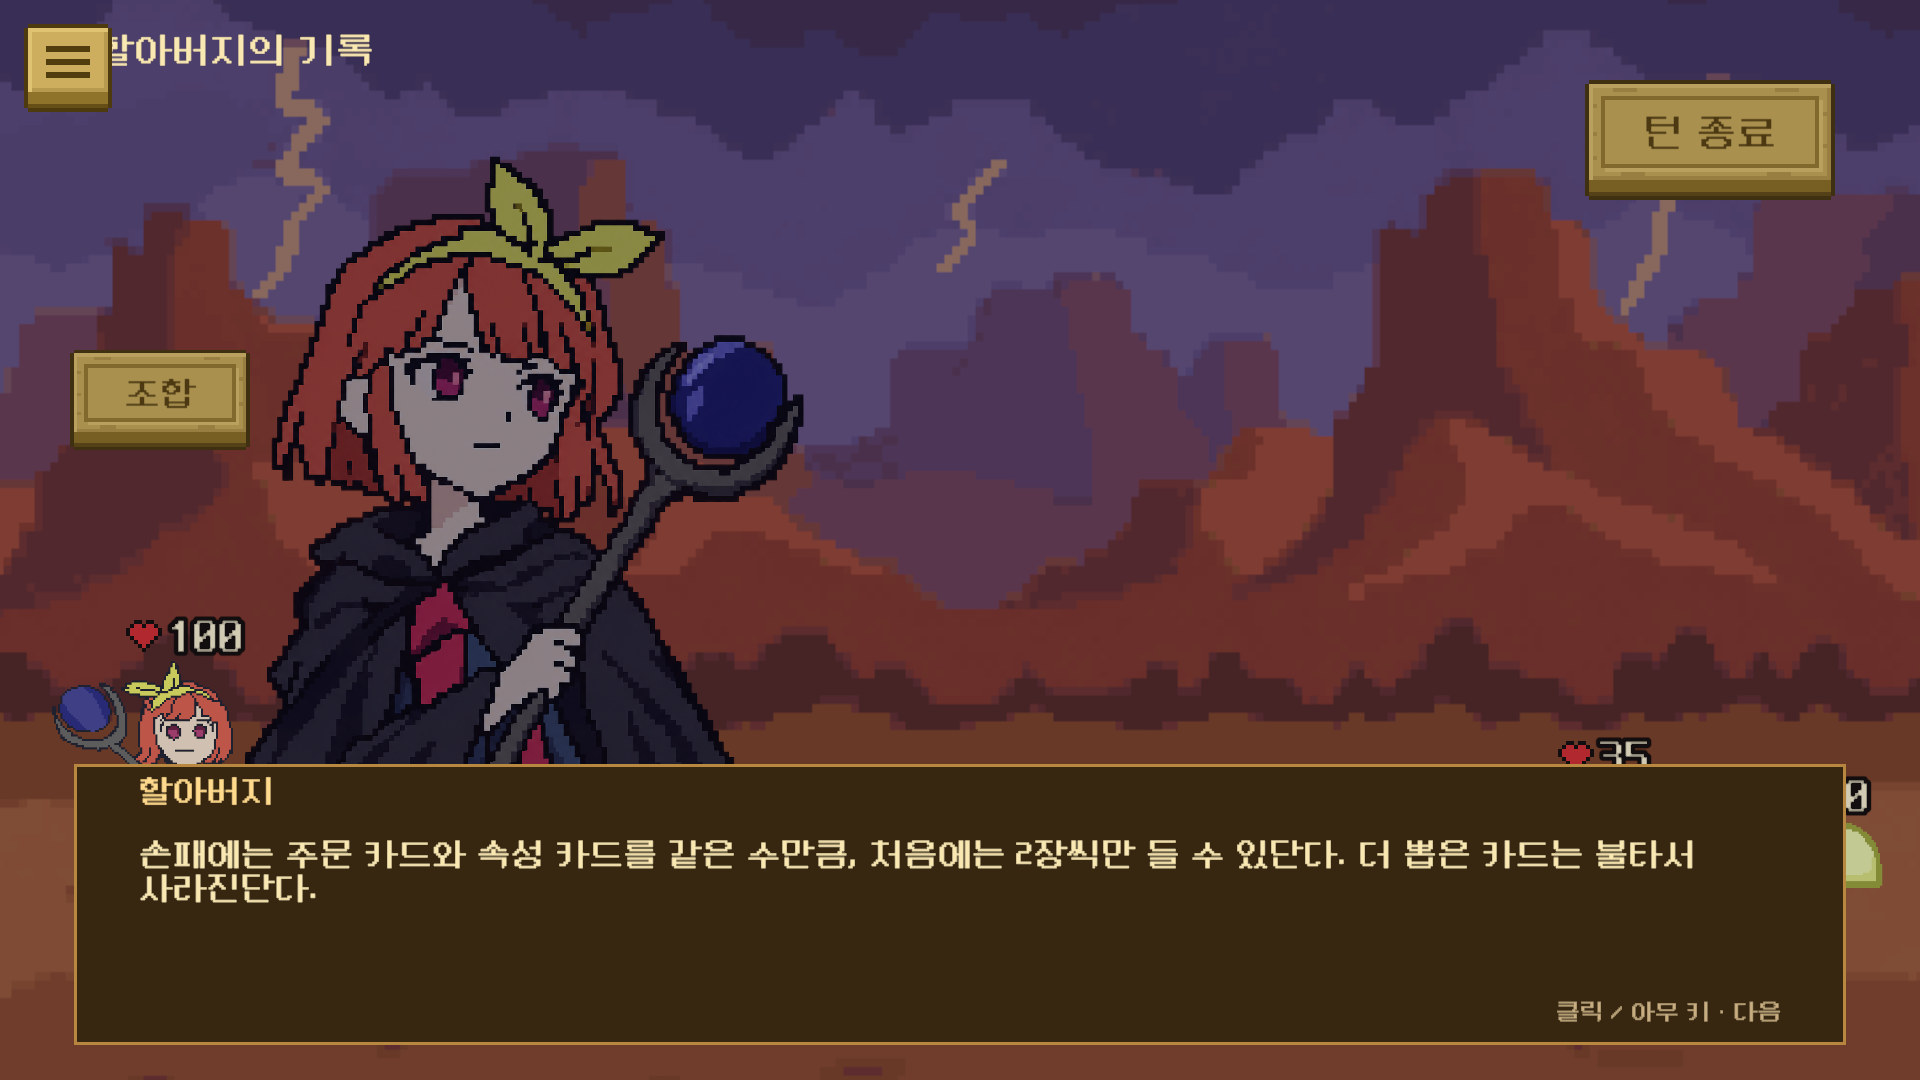
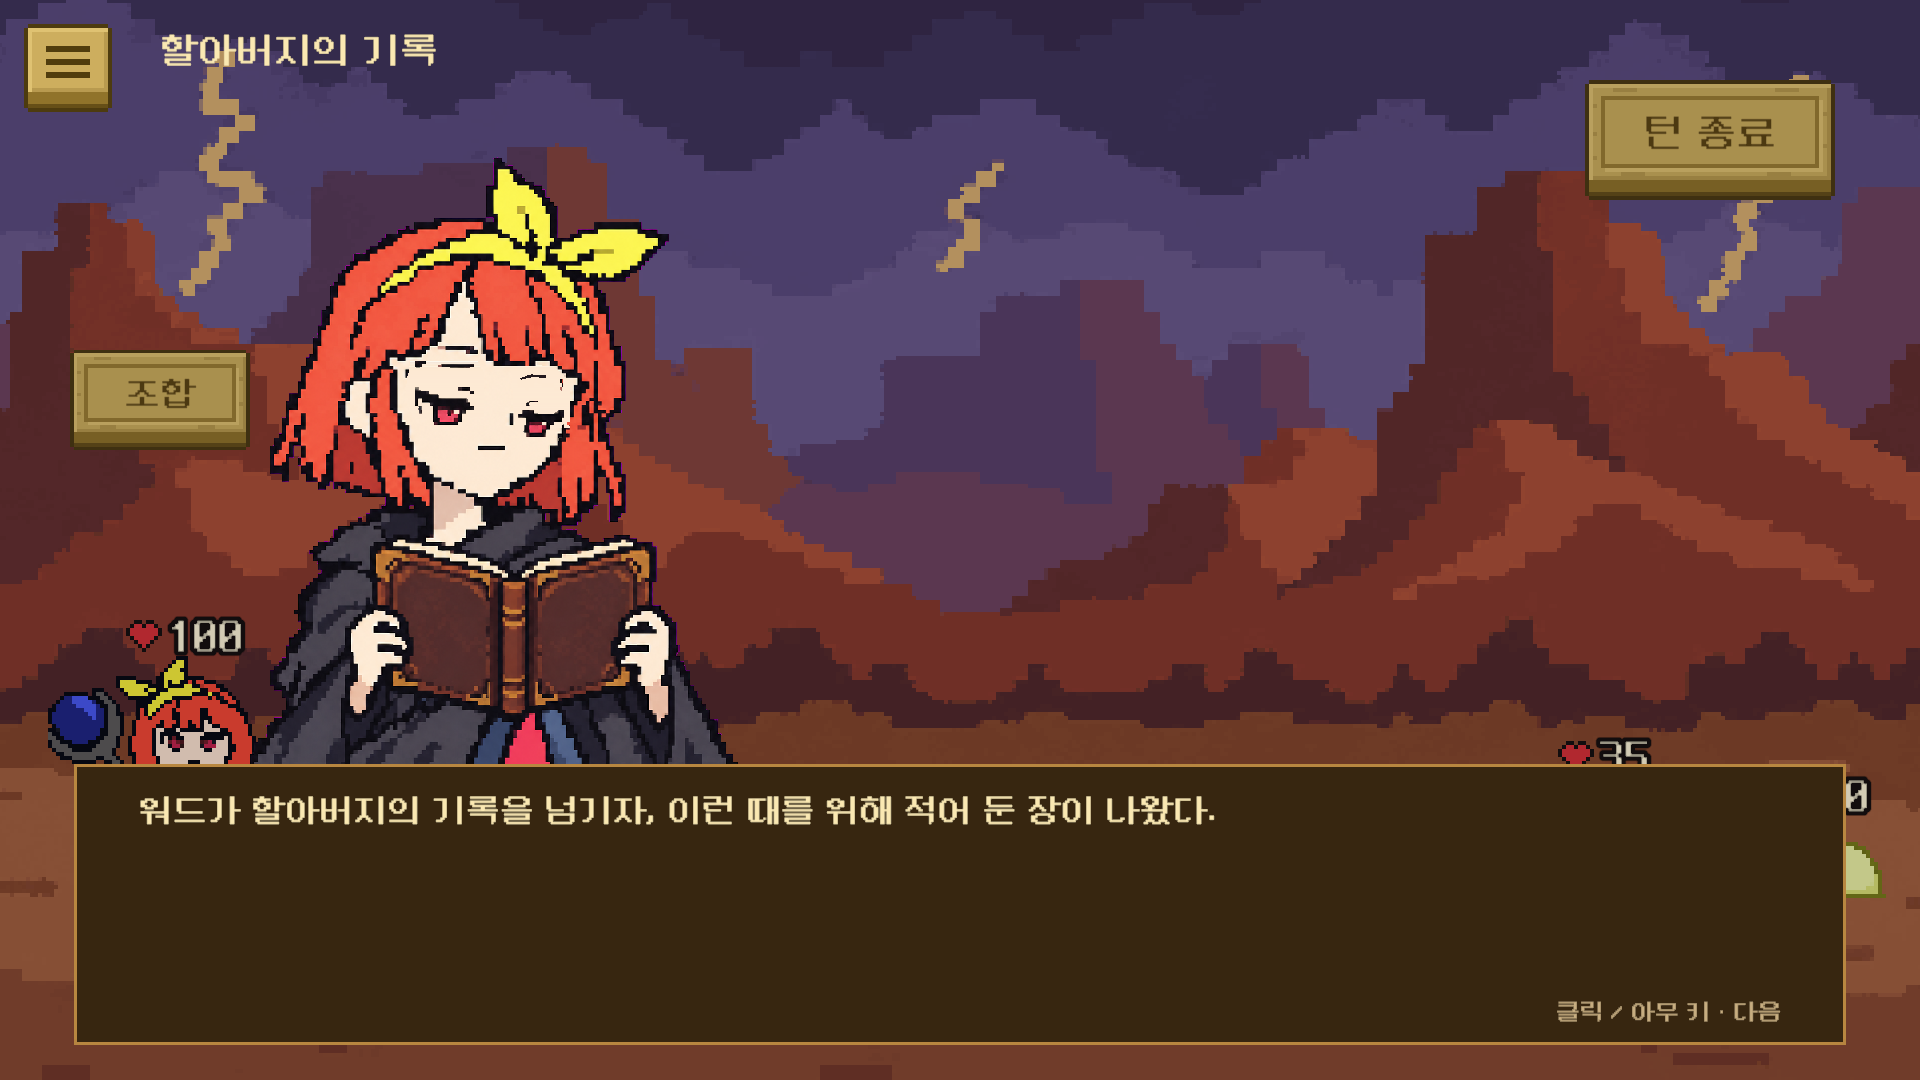
docs: #119 계획에 기록 나레이션과 안내 저장 결정, 최신 검증 결과 반영

diff --git a/.plan/issues/2026-10-14-issue-119-hand-limit-enemy-rage-upgrades.md b/.plan/issues/2026-10-14-issue-119-hand-limit-enemy-rage-upgrades.md
@@ -37,7 +37,8 @@
 - 새 게임(`SaveLoadController.InitPlayData`)은 재화와 업그레이드를 초기화한다. 이어하기는 유지한다.
 - 업그레이드 창과 결과 정산 화면은 `SlimeEncyclopediaView` 처럼 Canvas를 코드로 만든다.
 - 폰트 atlas 에 `→` 가 없어서 수치 변화는 `>` 로 표시한다.
-- 새 규칙 안내는 1-1 튜토리얼을 늘리지 않고, 처음 겪는 순간 지역 대화창으로 한 번만 보여 준다. 다 읽고 닫으면 `SeenTips` 에 기록하고, 새 게임은 기록을 지운다. 할아버지 초상화는 튜토리얼 에셋에만 있어 이름만 보인다.
+- 새 규칙 안내는 1-1 튜토리얼을 늘리지 않고, 처음 겪는 순간 지역 대화창으로 한 번만 보여 준다. 다 읽고 닫으면 `SeenTips` 에 기록하고, 새 게임은 기록을 지운다. `SeenTips` 는 클라우드 `upgrade` 키(버전 2)에도 저장한다.
+- 인트로에서 할아버지는 이미 세상을 떠났으므로, 1-1 튜토리얼과 안내 모두 할아버지가 직접 말하지 않고 워드가 할아버지의 기록을 읽는 나레이션으로 보여 준다. 튜토리얼은 기록을 펼치는 나레이션으로 시작하고, 초상화는 기록을 내려다보며 읽는 워드(`ReadBook`)다.
 - 신성 주문과 신성 슬라임의 회복은 최대 HP를 넘지 않는다. 최대 HP 업그레이드가 의미를 갖게 하기 위해서다.
 
 ## Approach (Checklist)
@@ -53,7 +54,7 @@
 - [x] 아군 슬라임 업그레이드 잠금
 - [x] 버리기 칸
 - [x] 새 규칙을 처음 겪을 때 한 번만 보여 주는 할아버지의 기록 안내(손패, 적 강화, 결과, 업그레이드, 아군 업그레이드)
-- [x] EditMode, PlayMode 전체 실행: EditMode 285개 통과, PlayMode 78개 중 72개 통과, 실패 0, 건너뜀 6(밸런스 시뮬레이션, 캡처)
+- [x] EditMode, PlayMode 전체 실행: EditMode 289개 통과, PlayMode 84개 중 77개 통과, 실패 0, 건너뜀 7(밸런스 시뮬레이션, 캡처). #126 을 합친 상태로 실행
 - [x] `BalanceSimulation` 조정 전후 비교: `docs/design/act-two-balance/README.md`, 24판 중 21판 승리
 - [x] 화면 캡처: `.plan/assets/2026-10-14-issue-119-hand-limit-enemy-rage-upgrades/`
 
